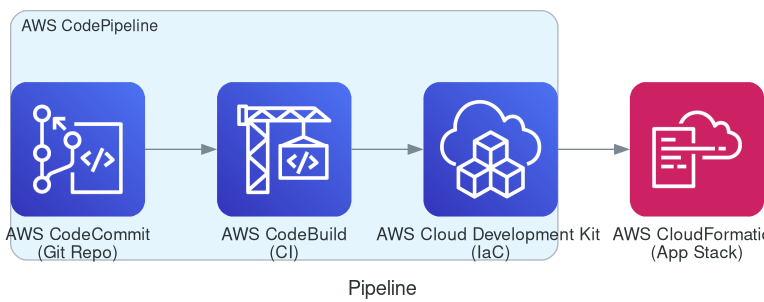
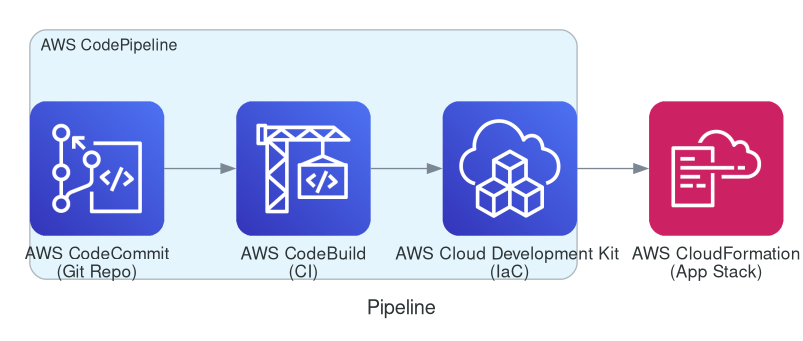
Fix cropped text

Changed region(s): [[0.0, 0.0298, 1.0, 0.9834], [0.4516, 0.6556, 0.4817, 0.6854], [0.4516, 0.298, 0.4817, 0.3278]]

diff --git a/docs/static/diagrams/pipeline.py b/docs/static/diagrams/pipeline.py
@@ -14,7 +14,7 @@ name_human = name.replace("_", " ").title()
 
 graph_attr = {
     "margin":"0",
-    "pad":"0"
+    "pad":"0.2"
 }
 
 with Diagram(name_human, filename=name, show=False, graph_attr=graph_attr):
